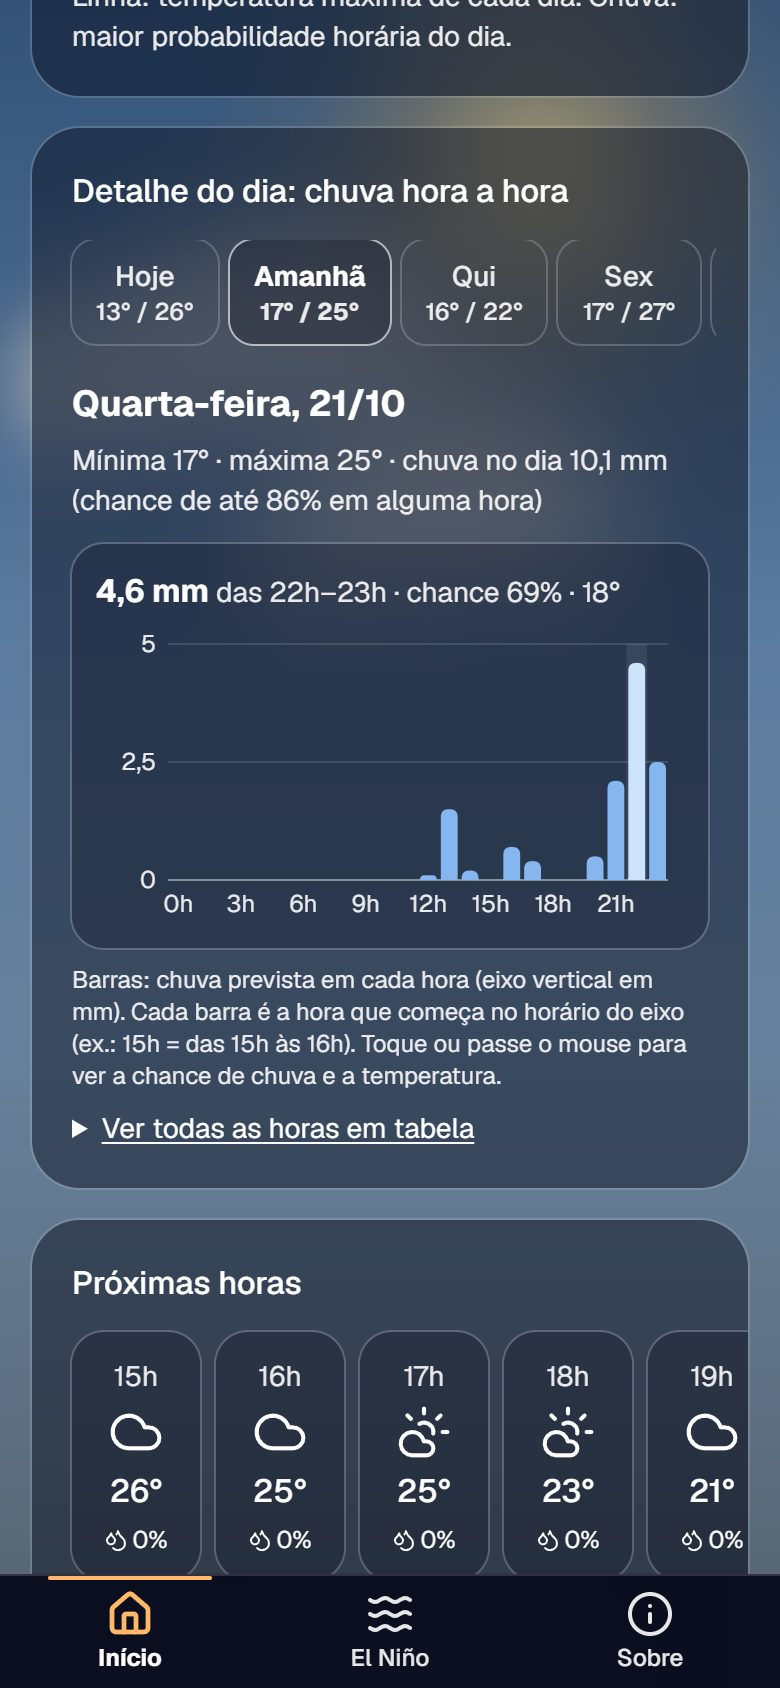
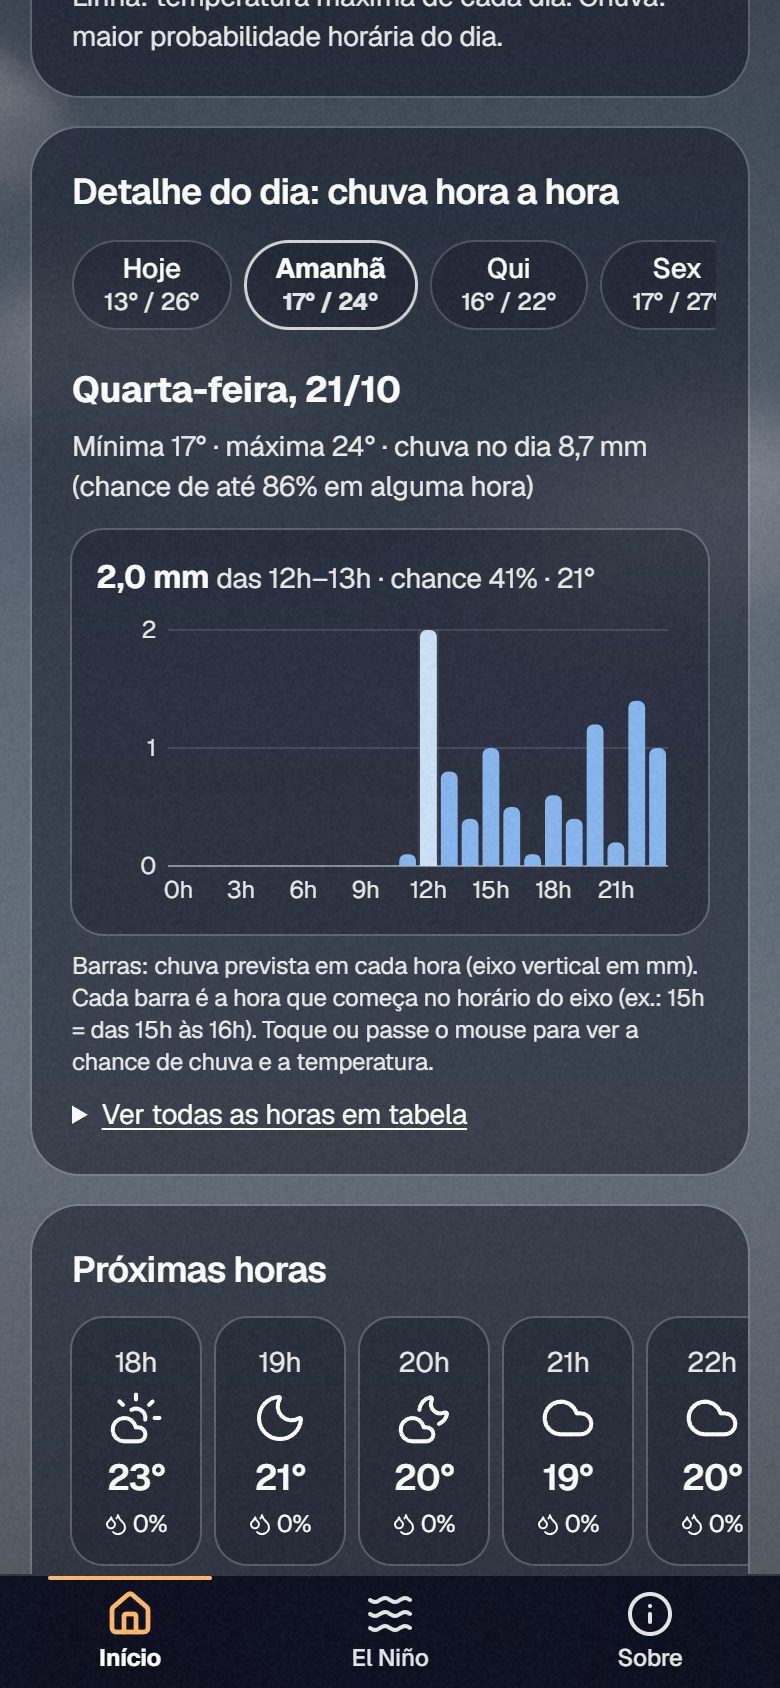
README: capturas e Lighthouse depois do pacote cinematográfico
- Oito capturas do site publicado (20/10/2026, dados ao vivo): Início,
  história do El Niño presa à rolagem (desktop e celular), manifesto,
  "Agora no Pacífico" e detalhe do dia. JPG para não pesar com o grão.
- Lighthouse 12 no site publicado: mediana de 3 medições por página
  (Início 91, El Niño 93, Sobre 99), 100 em acessibilidade, boas práticas
  e SEO, CLS 0.
- Registra a volta à região padrão das funções e o motivo da falha nos
  avisos do monitor.

diff --git a/README.md b/README.md
@@ -13,13 +13,15 @@ educativo sobre El Niño. Projeto de portfólio, sem fins comerciais.
 
 | Início (desktop) | Início (celular) |
 |---|---|
-| ![Tela Início no desktop: cena de céu parcialmente nublado, 26 °C, cards de vento, sol e índice UV](docs/screenshots/inicio-desktop.png) | ![Tela Início no celular, com o menu inferior](docs/screenshots/inicio-celular.jpg) |
-| **El Niño ao vivo (desktop)** | **El Niño ao vivo (celular)** |
-| ![Painel “Agora no Pacífico”: situação oficial do NOAA (El Niño em curso) e régua do Niño 3.4 em +3,3 °C](docs/screenshots/el-nino-desktop.png) | ![Painel “Agora no Pacífico” no celular](docs/screenshots/el-nino-celular.jpg) |
+| ![Tela Início no desktop: cena nublada, 24 °C, cards de vento, sol e índice UV, cabeçalho fixo](docs/screenshots/inicio-desktop.jpg) | ![Tela Início no celular, com o menu inferior](docs/screenshots/inicio-celular.jpg) |
+| **El Niño: história presa à rolagem (desktop)** | **El Niño: história presa à rolagem (celular)** |
+| ![Passo final da história: o mar ilustrado quente e “+3,3 °C” na região Niño 3.4, com a situação oficial do NOAA](docs/screenshots/el-nino-historia-desktop.jpg) | ![Passo “La Niña” da história no celular, com o mar ilustrado azul](docs/screenshots/el-nino-historia-celular.jpg) |
+| **El Niño: manifesto que acende (desktop)** | **El Niño: “Agora no Pacífico” (celular)** |
+| ![Frase “Um dia de chuva forte ou de calor em Cascavel não pode ser atribuído ao El Niño” em tamanho grande](docs/screenshots/el-nino-manifesto-desktop.jpg) | ![Painel ao vivo no celular: situação oficial do NOAA e régua do Niño 3.4 em +3,3 °C](docs/screenshots/el-nino-celular.jpg) |
 | **Detalhe do dia (desktop)** | **Detalhe do dia (celular)** |
-| ![Card “Detalhe do dia”: abas dos 7 dias e barras de chuva por hora](docs/screenshots/detalhe-do-dia-desktop.png) | ![Card “Detalhe do dia” no celular, com 4,6 mm previstos das 22h às 23h](docs/screenshots/detalhe-do-dia-celular.jpg) |
+| ![Card “Detalhe do dia”: abas em pílula dos 7 dias e barras de chuva por hora](docs/screenshots/detalhe-do-dia-desktop.jpg) | ![Card “Detalhe do dia” no celular, abrindo na hora mais chuvosa de amanhã](docs/screenshots/detalhe-do-dia-celular.jpg) |
 
-<sub>Capturas de 20/10/2026 do site publicado, com dados reais do momento; a cena e os números mudam com o tempo em Cascavel e os boletins do NOAA.</sub>
+<sub>Capturas de 20/10/2026 do site publicado (depois do pacote cinematográfico C1–C3), com dados reais do momento; a cena e os números mudam com o tempo em Cascavel e os boletins do NOAA.</sub>
 
 
 ## Princípios
@@ -115,7 +117,7 @@ para o El Niño):
 
 ## Qualidade
 
-- **534 testes** cobrindo: validação dos provedores (com cópias reais dos arquivos do NOAA), normalização, fuso perto da
+- **539 testes** cobrindo: validação dos provedores (com cópias reais dos arquivos do NOAA), normalização, fuso perto da
   meia-noite, regras de frescor, retentativa e fallback compartilhado, estados
   da tela (fresco, velho, expirado, indisponível), cenas para todos os códigos do
   tempo, contraste WCAG no pior caso de cada cena, widgets (UV, sol, vento, curva),
@@ -134,7 +136,9 @@ para o El Niño):
 - **Monitoramento** (`.github/workflows/monitor.yml` + `scripts/check-health.mjs`):
   a cada 30 min verifica as páginas e as APIs publicadas; se algo cair, a
   previsão ficar velha ou os dados do El Niño pararem de ser atualizados (NOAA
-  fora do ar ou formato dos arquivos mudou), a execução falha e o GitHub avisa por e-mail. Rodar à
+  fora do ar ou formato dos arquivos mudou), a execução falha e o GitHub avisa por e-mail.
+  Quando o site serve o último dado bom, o aviso diz o motivo da falha do provedor
+  (campo `failure` de `/api/weather` e `/api/enso`, ex.: “HTTP 429: limite de uso”). Rodar à
   mão: `node scripts/check-health.mjs`. O GitHub desativa agendamentos de
   repositórios públicos após 60 dias sem commits (reativar na aba Actions).
 - **Boletim do El Niño** (`.github/workflows/enso-boletim.yml` + `scripts/check-enso-bulletin.mjs`):
@@ -148,13 +152,15 @@ para o El Niño):
   do tempo ou do El Niño fica guardado no aparelho; só os arquivos do visual do site.
 - **Segurança:** cabeçalhos CSP (parcial), HSTS, `nosniff`, `X-Frame-Options`,
   `Referrer-Policy` e `Permissions-Policy` em todas as respostas (`next.config.ts`).
-- **Lighthouse 12** (celular, com animações ativas, site publicado, 20/10/2026, depois do El Niño ao vivo e das melhorias M1–M4):
+- **Lighthouse 12** (celular, com animações ativas, site publicado, 20/10/2026, depois do pacote cinematográfico; mediana de 3 medições, faixa entre parênteses):
 
   | Página | Performance | Acessibilidade | Boas práticas | SEO | CLS | LCP |
   |---|---|---|---|---|---|---|
-  | Início | 98 | 100 | 100 | 100 | 0 | 2,5 s |
-  | El Niño | 97 | 100 | 100 | 100 | 0 | 2,0 s |
-  | Sobre | 100 | 100 | 100 | 100 | 0 | 1,9 s |
+  | Início | 91 (88–96) | 100 | 100 | 100 | 0 | 2,4 s |
+  | El Niño | 93 (90–99) | 100 | 100 | 100 | 0 | 2,1 s |
+  | Sobre | 99 (96–99) | 100 | 100 | 100 | 0 | 2,0 s |
+
+  A nota de performance varia alguns pontos entre execuções (carga da máquina que mede); acessibilidade, boas práticas, SEO e CLS foram iguais nas 3.
 
 - **Segredos:** nenhuma chave no projeto; o JavaScript enviado ao navegador não
   contém referências ao provedor nem padrões de chave/token.
@@ -257,7 +263,7 @@ cabeçalhos de segurança, teclado na lista de horas, 404 em português.
 - M1. ✅ App instalável (PWA), página sem conexão e menu inferior no celular
 - M2. ✅ Atualização automática com a aba aberta (10 min na Início, 30 min no El Niño), transição suave entre cenas e céu de amanhecer/entardecer (até 40 min do nascer/pôr do sol)
 - M3. ✅ Detalhe do dia: abas com os 7 dias e chuva prevista hora a hora (barras em mm, chance e temperatura na leitura, tabela com todas as horas)
-- M4. ✅ Pequenos ajustes: telefones 199/193 no quadro de alertas, prévia ao compartilhar (`public/og.png`), robots.txt e sitemap, funções na região de São Paulo (`vercel.json`), frase de dia seco sem “até 0%”. A organização do código (busca resiliente comum e El Niño separado em dados × textos) já tinha entrado na E1.
+- M4. ✅ Pequenos ajustes: telefones 199/193 no quadro de alertas, prévia ao compartilhar (`public/og.png`), robots.txt e sitemap, funções na região de São Paulo (revertido no mesmo dia: com `gru1`, as buscas ao Open-Meteo passaram a falhar e o site serviu o último dado bom; as funções voltaram à região padrão), frase de dia seco sem “até 0%”. A organização do código (busca resiliente comum e El Niño separado em dados × textos) já tinha entrado na E1.
 
 **Pacote cinematográfico** (técnicas da skill one-shot adaptadas a um site de dados; animações com a rolagem nativa do CSS, sem biblioteca):
 
